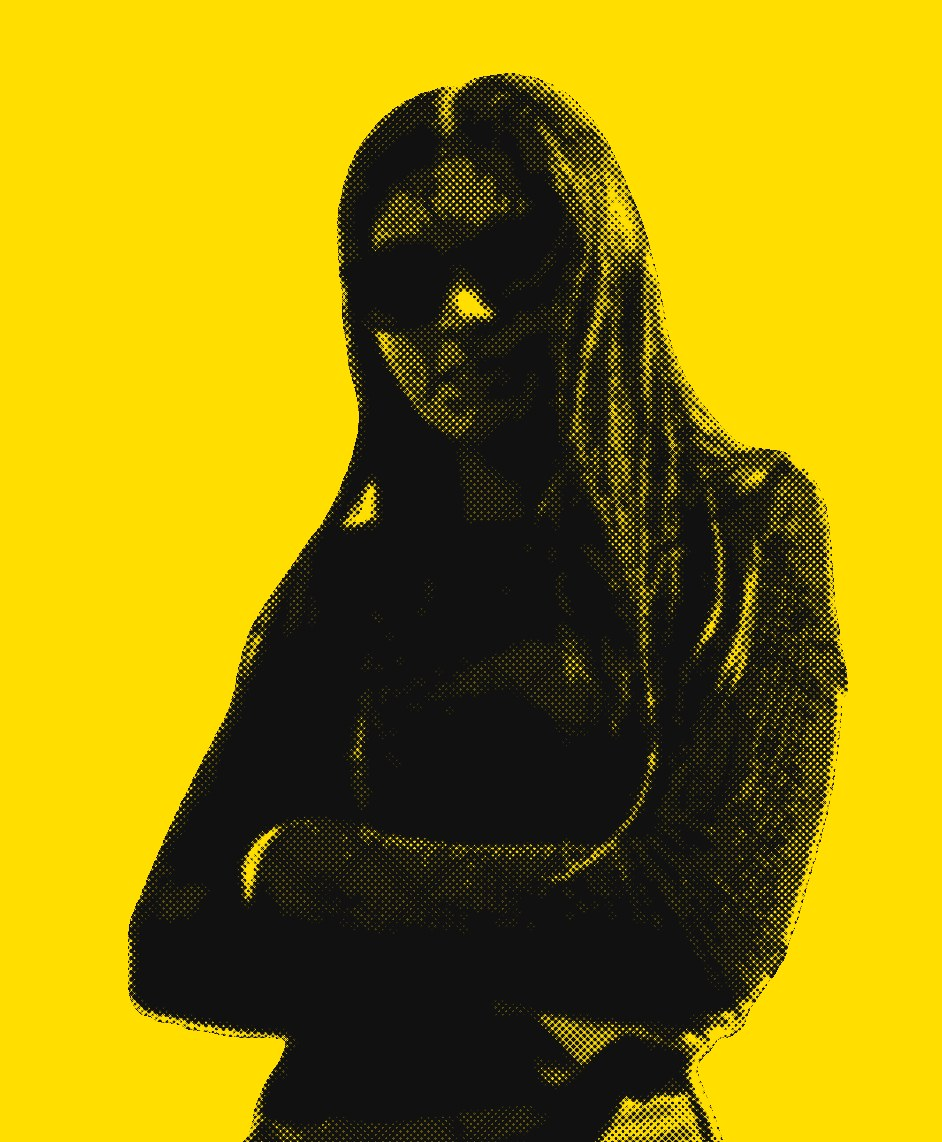
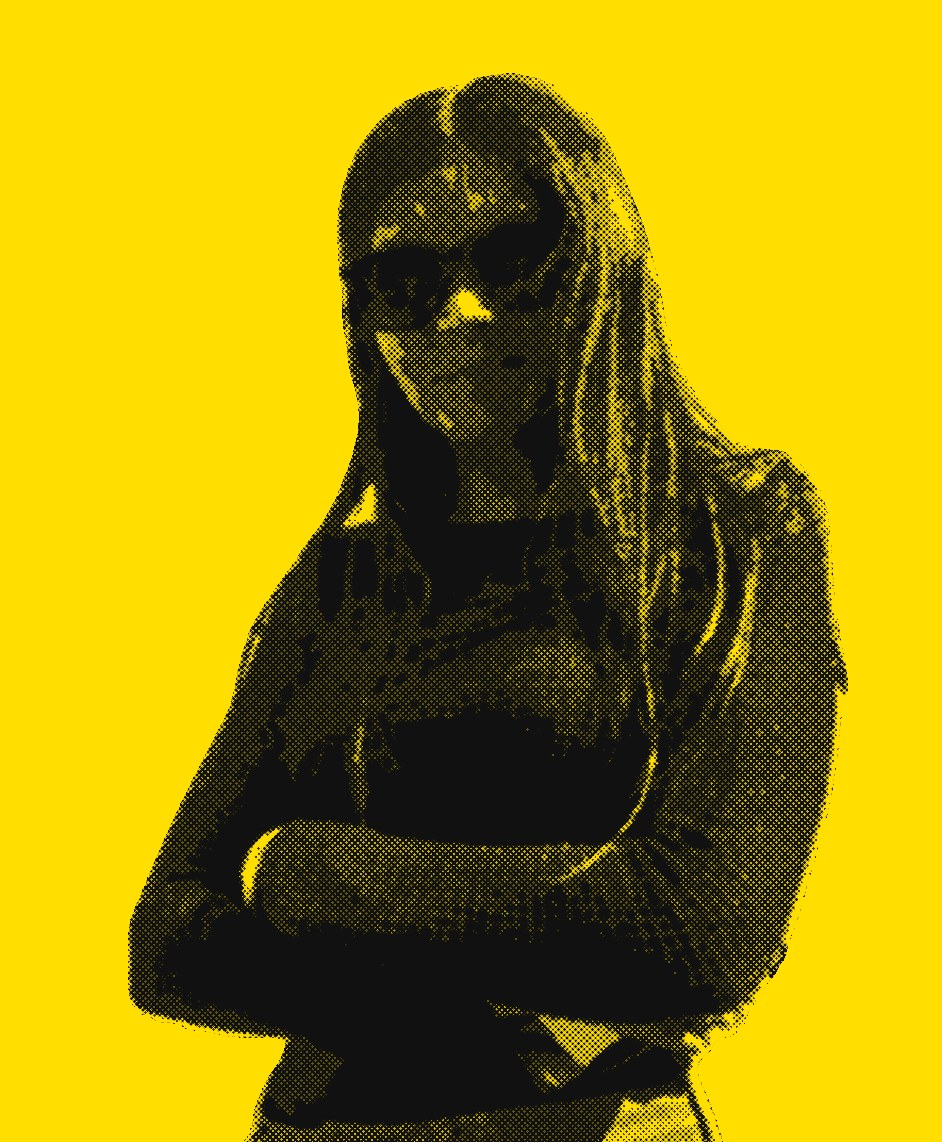
edited a picture on landing screen

Changed region(s): [[0.1231, 0.0613, 0.9236, 1.0], [0.5234, 0.8581, 0.5541, 0.8888]]

diff --git a/src/styles.css b/src/styles.css
@@ -146,7 +146,7 @@ p { margin: 0 0 1em; }
 .scrap.big { font-size: 2.9cqw; padding: .15cqw .8cqw .3cqw; }
 
 .panel {
-  position: absolute; right: 3%; bottom: 4%; width: 15%; margin: 0; z-index: 4;
+  position: absolute; right: .5%; bottom: 3%; width: 15%; margin: 0; z-index: 4;
   transform: rotate(2.5deg); box-shadow: 0 20px 30px -14px rgba(0,0,0,.6);
 }
 .panel img { display: block; width: 100%; height: auto; }

diff --git a/src/App.jsx b/src/App.jsx
@@ -60,7 +60,7 @@ function Home() {
         <Wall />
         <figure className="panel">
           <img src="/punk/yellow.jpg" alt="Archana in sunglasses, printed as a yellow halftone" />
-          <figcaption>NO NULLS</figcaption>
+          <figcaption>CLEAN DATA ONLY</figcaption>
         </figure>
         <figure className="figure">
           <img src="/punk/front.png" alt="Archana, photocopied cut-out" />
